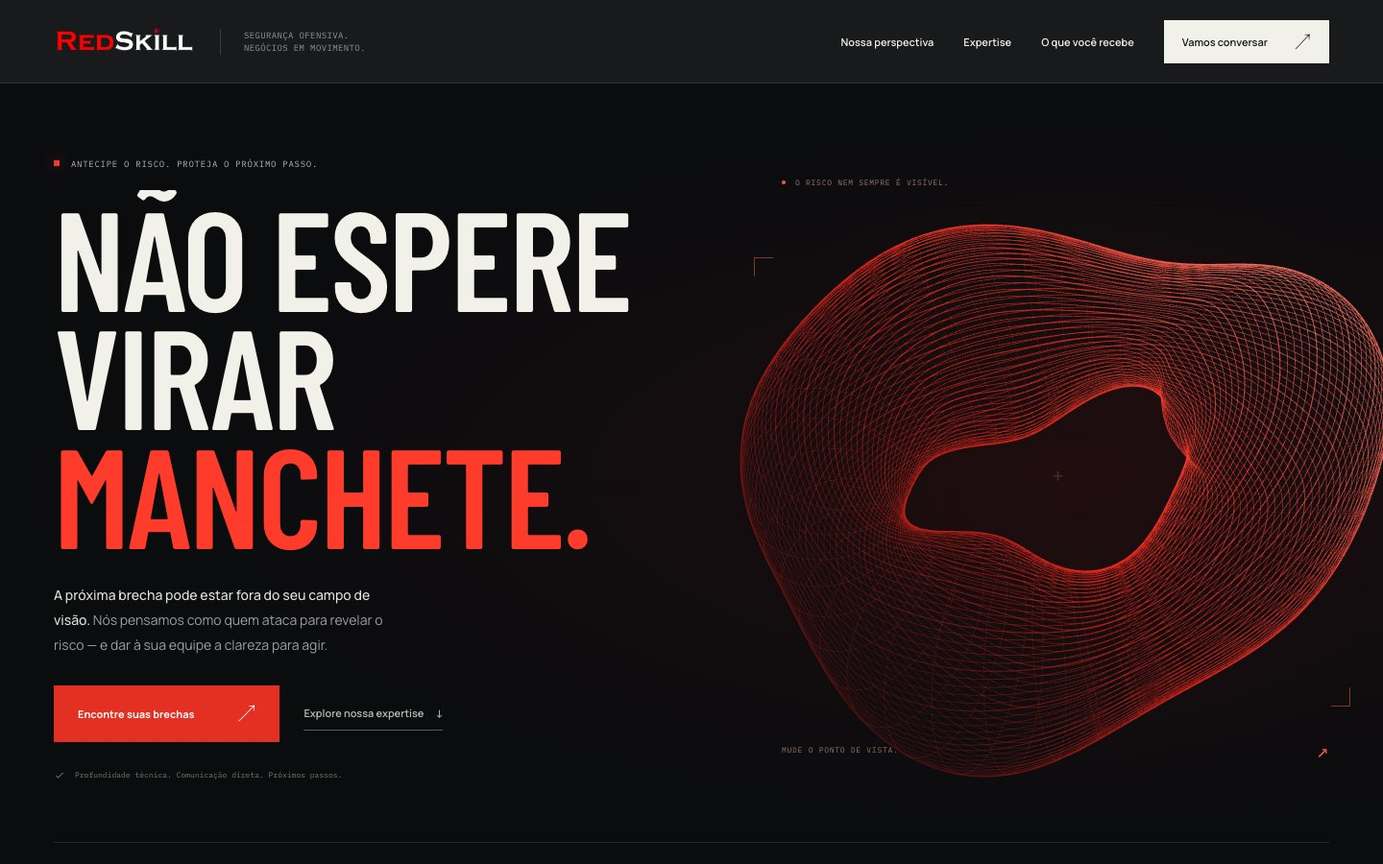
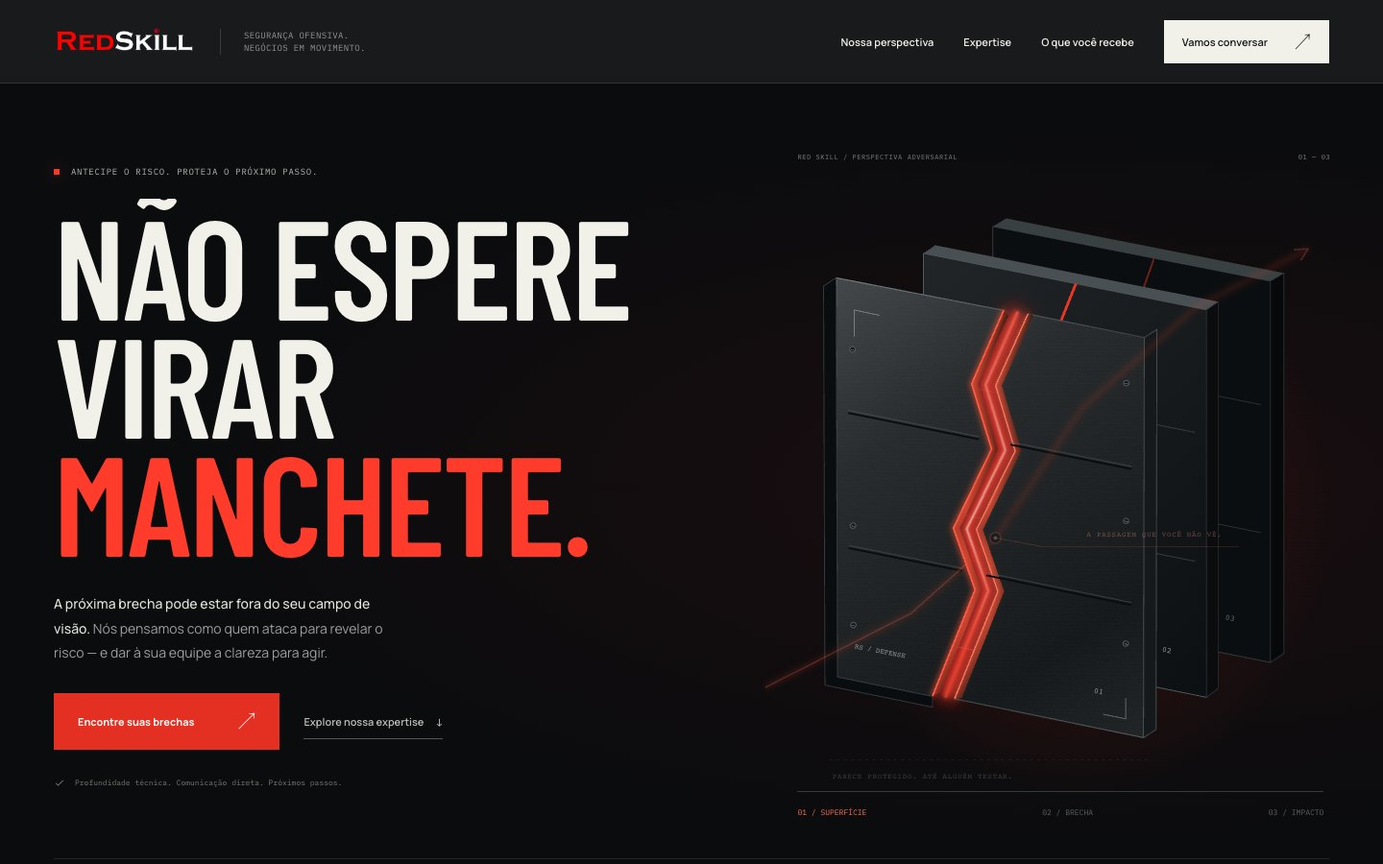
update final?

diff --git a/v23-antecipa.html b/v23-antecipa.html
@@ -231,10 +231,74 @@ h1 .last{color:#ff3c2c}
 @media(max-width:360px){h1{font-size:68px}.hero-copy>.eyebrow{font-size:7px}.hero-actions{gap:12px}.hero-actions .button{padding:16px 15px;gap:20px}.hero-art{height:365px}.manifesto-strip strong{font-size:30px}}
 @media(prefers-reduced-motion:reduce){.hero-art{transform:none!important}}
 
+
+/* A physical defense, exposed by an adversarial point of view. */
+.breach-scene{height:690px;margin-left:0;margin-right:-35px;perspective:1100px}
+.hero-art .breach-art{width:100%;height:100%;max-height:none;overflow:visible;transform:rotateY(var(--look-x,0deg)) rotateX(var(--look-y,0deg));transform-origin:50% 50%;transition:transform .8s var(--ease)}
+.breach-heading{position:absolute;left:13%;right:5%;top:6px;display:flex;justify-content:space-between;gap:20px;color:#778080;font:7px/1.8 var(--mono);letter-spacing:.08em}
+.plate-back{transform:translateX(var(--layer-shift,0px))}
+.plate-middle{transform:translateX(calc(var(--layer-shift,0px) * .45))}
+.plate-front-left{transform:translateX(var(--open-left,0px))}
+.plate-front-right{transform:translateX(var(--open-right,0px))}
+.attack-ray{opacity:calc(.2 + var(--breach,0)*.8)}
+.ray-line{stroke-dasharray:1;stroke-dashoffset:calc(.76 - var(--breach,0)*.76)}
+.fault-callout{opacity:calc(.35 + var(--breach,0)*.65)}
+footer{overflow:hidden}
+@media(prefers-reduced-motion:no-preference){.plate,.plate-front-left,.plate-front-right{transition:transform .18s ease-out}.ray-line{transition:stroke-dashoffset .18s ease-out}}
+.breach-phases{display:flex;justify-content:space-between;gap:15px;position:absolute;left:13%;right:6%;bottom:-10px;border-top:1px solid #333b3c;padding-top:15px;font:8px/1.5 var(--mono);color:#566161}
+.breach-phases span{transition:color .4s}.breach-phases .is-active{color:#ff6b53}
+.target-cursor{position:fixed;left:0;top:0;width:40px;height:40px;z-index:100;pointer-events:none;opacity:0;color:#ff6049;will-change:transform;transition:opacity .2s}
+.target-cursor svg{width:100%;height:100%;overflow:visible;filter:drop-shadow(0 0 2px #000)}
+.target-cursor .brackets{transform-origin:20px 20px;transition:transform .35s var(--ease)}
+.target-cursor.is-hover .brackets{transform:rotate(90deg) scale(.7)}
+.target-cursor.is-down .brackets{transform:scale(.5)}
+.target-cursor.visible{opacity:1}
+.target-cursor .cursor-center{transition:transform .2s;transform-origin:20px 20px}.target-cursor.is-hover .cursor-center{transform:rotate(45deg)}
+@media(hover:hover) and (pointer:fine) and (prefers-reduced-motion:no-preference){html.custom-aim,html.custom-aim body,html.custom-aim a,html.custom-aim button{cursor:none}html.custom-aim input,html.custom-aim textarea{cursor:text}html.custom-aim select{cursor:auto}}
+@media(prefers-reduced-motion:no-preference){
+ .fault-core{animation:fault-breathe 4s ease-in-out infinite}
+ @keyframes fault-breathe{0%,100%{opacity:.65}50%{opacity:1}}
+ .ready .reveal{transition-duration:1.1s;transform:translateY(45px)}
+ .ready .reveal.visible{transform:none}
+ .section-heading h2,.perspective h2,.delivery-copy h2,.contact h2{transform:translateY(var(--title-lift,0px));will-change:transform}
+ .impact-top svg{transform:rotate(var(--icon-turn,0deg));transition:transform .3s linear}
+ .process-number{color:color-mix(in srgb,#b5bea7 calc(100% - var(--number-emphasis,0%)),#ec3526)}
+ .report-paper{transform:perspective(1200px) rotateX(var(--report-x,0deg)) rotate(var(--report-turn,-5deg))!important}
+ .manifesto-strip strong{transform:translateX(var(--strip-drift,0px))}
+ .footer-statement{transform:translateX(var(--footer-drift,0px));opacity:var(--footer-alpha,1)}
+ .service-tabs button{transition:background .4s,color .4s,padding-left .4s}
+ .service-tabs button[aria-selected="true"]{padding-left:34px}
+ .scope-tags span{transition:transform .3s,border-color .3s}
+ .scope-tags span:hover{transform:translateY(-3px);border-color:#758465}
+ .button span{transition:transform .3s}.button:hover span{transform:translate(3px,-3px)}
+}
+@media(max-width:800px){.breach-scene{height:530px;margin:20px -20px 10px;width:calc(100% + 40px)}.breach-heading{font-size:6px;left:10%;right:8%;top:3px}.breach-phases{font-size:7px;left:10%;right:8%;bottom:0}}
+@media(max-width:360px){.breach-scene{height:450px}.breach-phases{font-size:6px}}
+@media(prefers-reduced-motion:reduce){.target-cursor{display:none}.plate-back,.plate-middle,.plate-front-left,.plate-front-right,.breach-art{transform:none!important}.attack-ray{opacity:.7}.ray-line{stroke-dashoffset:0}.fault-callout{opacity:1}}
+
+/* Native-scroll service chapters: enabled only when the whole panel fits. */
+.expertise-track{position:relative}
+.expertise-track.is-pinned .expertise-sticky{position:sticky;top:var(--pin-top,106px)}
+.service-stage{--panel-base:530px;min-height:var(--panel-height,var(--panel-base));isolation:isolate}
+.service-panel{min-height:var(--panel-height,var(--panel-base))}
+.panel-ghost{position:absolute!important;inset:0;z-index:2;pointer-events:none;background:#e8eade}
+.panel-ghost>div{animation:none!important}
+.expertise-rail{position:relative;display:flex;justify-content:space-between;gap:20px;align-items:center;font:8px/1.6 var(--mono);letter-spacing:.04em;color:#6c765f;padding:13px 2px 12px;background:var(--paper)}
+.expertise-rail i{position:absolute;bottom:0;left:0;right:0;height:2px;background:#d0d6c4}
+.expertise-rail i::after{content:"";display:block;height:100%;background:var(--red);transform:scaleX(var(--chapter-progress,0));transform-origin:left;transition:transform .1s linear}
+.chapter-counter{color:var(--ink)}
+.fault{opacity:calc(1 - var(--breach,0)*.86)}
+.plate-front-left,.plate-front-right{transform-box:fill-box;transform-origin:50% 50%}
+.plate-front-left{transform:translate(var(--open-left,0px),calc(var(--breach,0)*-8px)) rotate(calc(var(--breach,0)*-1.6deg))}
+.plate-front-right{transform:translate(var(--open-right,0px),calc(var(--breach,0)*7px)) rotate(calc(var(--breach,0)*1deg))}
+@media(prefers-reduced-motion:no-preference){.plate,.plate-front-left,.plate-front-right{transition:transform .48s cubic-bezier(.16,.7,.2,1)}.fault,.attack-ray,.fault-callout{transition:opacity .4s}.ray-line{transition:stroke-dashoffset .45s cubic-bezier(.16,.7,.2,1)}}
+@media(max-width:800px){.service-stage{--panel-base:480px}.expertise-rail{font-size:7px;padding:11px 0}}
+@media(prefers-reduced-motion:reduce){.expertise-sticky{position:static!important}.panel-ghost{display:none}.fault{opacity:1}}
 </style>
 <noscript><style>.service-tabs{display:none}.expertise-console{grid-template-columns:1fr}.service-panel[hidden]{display:flex;border-top:1px solid var(--line)}</style></noscript>
 </head>
 <body>
+<div class="target-cursor" aria-hidden="true"><svg viewBox="0 0 40 40" fill="none"><g class="brackets" stroke="currentColor" stroke-width="1.2"><path d="M3 13V3h10m14 0h10v10m0 14v10H27m-14 0H3V27"/></g><path class="cursor-center" d="M20 15v10m-5-5h10" stroke="currentColor" stroke-width="1"/><circle cx="20" cy="20" r="1" fill="currentColor"/></svg></div>
 <a class="skip" href="#inicio">Pular para o conteúdo</a>
 <header><nav class="wrap" aria-label="Navegação principal"><a class="brand" href="#inicio" aria-label="RedSkill — início"><img src="assets/redskill-light.png" alt="RedSkill"><span>SEGURANÇA OFENSIVA.<br>NEGÓCIOS EM MOVIMENTO.</span></a><div class="nav-links"><a href="#perspectiva">Nossa perspectiva</a><a href="#expertise">Expertise</a><a href="#entregas">O que você recebe</a><a class="nav-cta" href="#contato">Vamos conversar <span>↗</span></a></div></nav><div class="page-progress" aria-hidden="true"></div></header>
 <main id="inicio">
@@ -247,13 +311,86 @@ h1 .last{color:#ff3c2c}
    <div class="hero-actions"><a class="button" href="#contato">Encontre suas brechas <span>↗</span></a><a class="text-link" href="#expertise">Explore nossa expertise <span>↓</span></a></div>
    <div class="hero-bottom"><svg viewBox="0 0 16 16" fill="none" aria-hidden="true"><path d="m3 8 3 3 7-7" stroke="currentColor" stroke-width="1.4"/></svg>Profundidade técnica. Comunicação direta. Próximos passos.</div>
   </div>
-  <div class="hero-art" role="img" aria-label="Superfície digital vermelha de contornos entrelaçados que se transforma lentamente com o movimento">
-   <svg class="surface-fallback" viewBox="0 0 700 700" aria-hidden="true"><g transform="rotate(-30 350 350)"><ellipse cx="350" cy="350" rx="150" ry="80" fill="none" stroke="#ef3529" stroke-opacity="0.15" stroke-width=".8"/><ellipse cx="350" cy="350" rx="155" ry="85" fill="none" stroke="#ef3529" stroke-opacity="0.16999999999999998" stroke-width=".8"/><ellipse cx="350" cy="350" rx="160" ry="90" fill="none" stroke="#ef3529" stroke-opacity="0.19" stroke-width=".8"/><ellipse cx="350" cy="350" rx="165" ry="95" fill="none" stroke="#ef3529" stroke-opacity="0.21" stroke-width=".8"/><ellipse cx="350" cy="350" rx="170" ry="100" fill="none" stroke="#ef3529" stroke-opacity="0.22999999999999998" stroke-width=".8"/><ellipse cx="350" cy="350" rx="175" ry="105" fill="none" stroke="#ef3529" stroke-opacity="0.25" stroke-width=".8"/><ellipse cx="350" cy="350" rx="180" ry="110" fill="none" stroke="#ef3529" stroke-opacity="0.27" stroke-width=".8"/><ellipse cx="350" cy="350" rx="185" ry="115" fill="none" stroke="#ef3529" stroke-opacity="0.29000000000000004" stroke-width=".8"/><ellipse cx="350" cy="350" rx="190" ry="120" fill="none" stroke="#ef3529" stroke-opacity="0.31" stroke-width=".8"/><ellipse cx="350" cy="350" rx="195" ry="125" fill="none" stroke="#ef3529" stroke-opacity="0.32999999999999996" stroke-width=".8"/><ellipse cx="350" cy="350" rx="200" ry="130" fill="none" stroke="#ef3529" stroke-opacity="0.35" stroke-width=".8"/><ellipse cx="350" cy="350" rx="205" ry="135" fill="none" stroke="#ef3529" stroke-opacity="0.37" stroke-width=".8"/><ellipse cx="350" cy="350" rx="210" ry="140" fill="none" stroke="#ef3529" stroke-opacity="0.39" stroke-width=".8"/><ellipse cx="350" cy="350" rx="215" ry="145" fill="none" stroke="#ef3529" stroke-opacity="0.41000000000000003" stroke-width=".8"/><ellipse cx="350" cy="350" rx="220" ry="150" fill="none" stroke="#ef3529" stroke-opacity="0.43000000000000005" stroke-width=".8"/><ellipse cx="350" cy="350" rx="225" ry="155" fill="none" stroke="#ef3529" stroke-opacity="0.44999999999999996" stroke-width=".8"/><ellipse cx="350" cy="350" rx="230" ry="160" fill="none" stroke="#ef3529" stroke-opacity="0.47" stroke-width=".8"/><ellipse cx="350" cy="350" rx="235" ry="165" fill="none" stroke="#ef3529" stroke-opacity="0.49" stroke-width=".8"/><ellipse cx="350" cy="350" rx="240" ry="170" fill="none" stroke="#ef3529" stroke-opacity="0.51" stroke-width=".8"/><ellipse cx="350" cy="350" rx="245" ry="175" fill="none" stroke="#ef3529" stroke-opacity="0.53" stroke-width=".8"/><ellipse cx="350" cy="350" rx="250" ry="180" fill="none" stroke="#ef3529" stroke-opacity="0.55" stroke-width=".8"/><ellipse cx="350" cy="350" rx="255" ry="185" fill="none" stroke="#ef3529" stroke-opacity="0.57" stroke-width=".8"/><ellipse cx="350" cy="350" rx="260" ry="190" fill="none" stroke="#ef3529" stroke-opacity="0.59" stroke-width=".8"/><ellipse cx="350" cy="350" rx="265" ry="195" fill="none" stroke="#ef3529" stroke-opacity="0.61" stroke-width=".8"/><ellipse cx="350" cy="350" rx="270" ry="200" fill="none" stroke="#ef3529" stroke-opacity="0.63" stroke-width=".8"/><ellipse cx="350" cy="350" rx="275" ry="205" fill="none" stroke="#ef3529" stroke-opacity="0.65" stroke-width=".8"/><ellipse cx="350" cy="350" rx="280" ry="210" fill="none" stroke="#ef3529" stroke-opacity="0.67" stroke-width=".8"/><ellipse cx="350" cy="350" rx="285" ry="215" fill="none" stroke="#ef3529" stroke-opacity="0.6900000000000001" stroke-width=".8"/><ellipse cx="350" cy="350" rx="290" ry="220" fill="none" stroke="#ef3529" stroke-opacity="0.7100000000000001" stroke-width=".8"/><ellipse cx="350" cy="350" rx="295" ry="225" fill="none" stroke="#ef3529" stroke-opacity="0.73" stroke-width=".8"/></g></svg>
-   <canvas id="threat-surface" aria-hidden="true"></canvas>
-   <span class="art-corner art-corner-a"></span><span class="art-corner art-corner-b"></span>
-   <div class="surface-label surface-label-top"><i></i>O RISCO NEM SEMPRE É VISÍVEL.</div>
-   <div class="surface-label surface-label-bottom">MUDE O PONTO DE VISTA. <span>↗</span></div>
-   <div class="surface-cross" aria-hidden="true">+</div>
+  <div class="hero-art breach-scene" role="img" aria-label="Parede de defesa em placas de grafite. Uma fissura vermelha revela uma passagem entre as camadas, que se separam com o scroll.">
+   <div class="breach-heading"><span>RED SKILL / PERSPECTIVA ADVERSARIAL</span><span>01 — 03</span></div>
+   <svg class="breach-art" viewBox="0 0 700 740" fill="none" aria-hidden="true">
+    <defs>
+     <linearGradient id="graphite" x1="120" y1="120" x2="500" y2="680" gradientUnits="userSpaceOnUse"><stop stop-color="#45494b"/><stop offset=".32" stop-color="#242729"/><stop offset=".75" stop-color="#111416"/><stop offset="1" stop-color="#202326"/></linearGradient>
+     <linearGradient id="backplate" x1="160" y1="150" x2="580" y2="550" gradientUnits="userSpaceOnUse"><stop stop-color="#222629"/><stop offset="1" stop-color="#0d1012"/></linearGradient>
+     <linearGradient id="edge" x1="120" y1="140" x2="530" y2="660" gradientUnits="userSpaceOnUse"><stop stop-color="#7b8385"/><stop offset=".45" stop-color="#303638"/><stop offset="1" stop-color="#565b5b"/></linearGradient>
+     <linearGradient id="fault-light" x1="200" y1="160" x2="420" y2="650" gradientUnits="userSpaceOnUse"><stop stop-color="#f33b28"/><stop offset=".5" stop-color="#ffaca0"/><stop offset=".72" stop-color="#ff4933"/><stop offset="1" stop-color="#e82319"/></linearGradient>
+     <radialGradient id="fault-halo"><stop stop-color="#f1342038"/><stop offset="1" stop-color="#f1342000"/></radialGradient>
+     <filter id="soft-glow" x="-150%" y="-50%" width="400%" height="200%"><feGaussianBlur stdDeviation="10"/></filter>
+     <filter id="hot-glow" x="-100%" y="-50%" width="300%" height="200%"><feGaussianBlur stdDeviation="3"/></filter>
+     <filter id="stone-grain" x="0" y="0" width="100%" height="100%"><feTurbulence type="fractalNoise" baseFrequency=".68" numOctaves="3" seed="12" stitchTiles="stitch"/><feColorMatrix type="saturate" values="0"/><feComposite in2="SourceAlpha" operator="in"/></filter>
+     <linearGradient id="cut-face"><stop stop-color="#581c16"/><stop offset=".45" stop-color="#bd412e"/><stop offset="1" stop-color="#351711"/></linearGradient>
+     <pattern id="brushed" width="4" height="4" patternUnits="userSpaceOnUse"><path d="M0 0h4" stroke="#ffffff" stroke-opacity=".035" stroke-width=".5"/></pattern>
+    </defs>
+    <ellipse cx="395" cy="406" rx="285" ry="320" fill="url(#fault-halo)"/>
+    <g class="plate plate-back">
+     <path d="m294 90 310 61v426l-310-62z" fill="#0b0e10" stroke="#353a3d"/>
+     <path d="m604 151 15-9v425l-15 10z" fill="#060809" stroke="#282d2f"/>
+     <path d="m294 90 15-9 310 61-15 9z" fill="#394042"/>
+     <path d="m474 126-33 93 17 62-43 76 24 76-42 103" stroke="#d93021" stroke-opacity=".5" stroke-width="2"/>
+     <path d="m306 231 287 58m-287 85 287 58" stroke="#2b3031"/>
+     <text x="553" y="529" fill="#697071" font-size="9" font-family="monospace" transform="rotate(11 553 529)">03</text>
+    </g>
+    <g class="plate plate-middle">
+     <path d="m220 120 316 63v433l-316-64z" fill="url(#backplate)" stroke="#535a5e"/>
+     <path d="m536 183 13-9v432l-13 10z" fill="#0a0c0e" stroke="#282d2f"/>
+     <path d="m220 120 13-9 316 63-13 9z" fill="#495054"/>
+     <path d="m390 154-31 78 21 70-40 84 19 72-42 114" stroke="#ed3625" stroke-width="3"/>
+     <path d="m233 262 290 58m-290 86 290 58" stroke="#363c3d"/>
+     <text x="486" y="565" fill="#8e9697" font-size="9" font-family="monospace" transform="rotate(11 486 565)">02</text>
+    </g>
+    <g class="fault">
+     <path d="m328 185-36 82 22 73-43 88 24 69-48 119" stroke="#ff281a" stroke-width="19" filter="url(#soft-glow)"/>
+     <path d="m328 185-36 82 22 73-43 88 24 69-48 119" stroke="#ff513d" stroke-width="6" filter="url(#hot-glow)"/>
+     <path class="fault-core" d="m328 185-36 82 22 73-43 88 24 69-48 119" stroke="url(#fault-light)" stroke-width="2.5"/>
+    </g>
+    <g class="plate-front-left">
+     <path d="m135 148 187 37-36 82 22 73-43 88 24 69-48 119-106-22z" fill="url(#graphite)" stroke="url(#edge)" stroke-width="1.2"/>
+     <path d="m135 148 187 37-36 82 22 73-43 88 24 69-48 119-106-22z" fill="url(#brushed)"/>
+     <path d="m135 148 187 37-36 82 22 73-43 88 24 69-48 119-106-22z" fill="#fff" filter="url(#stone-grain)" opacity=".065"/>
+     <path d="m322 185-36 82 22 73-43 88 24 69-48 119 9-5 46-114-24-69 43-88-22-73 34-76z" fill="url(#cut-face)"/>
+     <path d="m322 185-36 82 22 73-43 88 24 69-48 119" stroke="#ff5139" stroke-width="5" opacity=".65" filter="url(#hot-glow)"/>
+     <path d="m322 185-36 82 22 73-43 88 24 69-48 119" stroke="#ff5a42" stroke-width="1.8"/>
+     <path d="m135 148-14 9v446l120 25v-12l-106-22z" fill="#0a0d0f" stroke="#33393c"/>
+     <path d="m148 296 146 30m-146 121 127 26" stroke="#53595a" stroke-opacity=".55"/>
+     <path d="m148 299 146 30m-146 121 127 26" stroke="#090b0d" stroke-width="2"/>
+     <path d="M155 184v30m0-30 28 6" stroke="#8b9191" stroke-width=".8"/>
+     <g fill="#14191c" stroke="#646d70" stroke-width=".8"><circle cx="153" cy="228" r="3"/><circle cx="153" cy="425" r="3"/><circle cx="153" cy="536" r="3"/></g>
+     <path d="m151 228 4 1m-4 196 4 1m-4 110 4 1" stroke="#848b8c" stroke-width=".6"/>
+     <text x="154" y="562" fill="#929b9b" font-size="8" font-family="monospace" transform="rotate(11 154 562)">RS / DEFENSE</text>
+    </g>
+    <g class="plate-front-right">
+     <path d="m334 187 130 26v447l-211-43 48-120-24-69 43-88-22-73z" fill="url(#graphite)" stroke="url(#edge)" stroke-width="1.2"/>
+     <path d="m334 187 130 26v447l-211-43 48-120-24-69 43-88-22-73z" fill="url(#brushed)"/>
+     <path d="m334 187 130 26v447l-211-43 48-120-24-69 43-88-22-73z" fill="#fff" filter="url(#stone-grain)" opacity=".065"/>
+     <path d="m334 187-36 80 22 73-43 88 24 69-48 120 8-1 47-119-24-69 43-88-22-73 35-79z" fill="url(#cut-face)" opacity=".9"/>
+     <path d="m334 187-36 80 22 73-43 88 24 69-48 120" stroke="#ff694e" stroke-width="4" opacity=".6" filter="url(#hot-glow)"/>
+     <path d="m334 187-36 80 22 73-43 88 24 69-48 120" stroke="#ff755b" stroke-width="1.5"/>
+     <path d="m464 213 14-9v447l-14 9z" fill="#15191b" stroke="#444c4e"/>
+     <path d="m315 330 135 27m-162 119 162 33" stroke="#555b5d" stroke-opacity=".55"/>
+     <path d="m315 333 135 27m-162 119 162 33" stroke="#090b0d" stroke-width="2"/>
+     <path d="M444 616v23l-25-5" stroke="#747e80" stroke-width=".8"/>
+     <g fill="#14191c" stroke="#646d70" stroke-width=".8"><circle cx="444" cy="264" r="3"/><circle cx="444" cy="418" r="3"/><circle cx="444" cy="555" r="3"/></g>
+     <path d="m442 264 4 1m-4 153 4 1m-4 136 4 1" stroke="#848b8c" stroke-width=".6"/>
+     <text x="408" y="610" fill="#8f989a" font-size="9" font-family="monospace" transform="rotate(11 408 610)">01</text>
+    </g>
+    <g class="attack-ray">
+     <path d="m46 605 163-83 94-84 96-144 128-114 125-65" stroke="#fb432c" stroke-width="6" filter="url(#hot-glow)" opacity=".5"/>
+     <path class="ray-line" pathLength="1" d="m46 605 163-83 94-84 96-144 128-114 125-65" stroke="#ff6950" stroke-width="1.5"/>
+     <path d="m636 116 16-1-8 13" stroke="#ff6950" stroke-width="1.5"/>
+     <circle cx="303" cy="438" r="6" fill="#100c0b" stroke="#ff6950"/><circle cx="303" cy="438" r="2" fill="#ffac96"/>
+    </g>
+    <g class="fault-callout" font-family="monospace" font-size="8" letter-spacing=".8">
+     <path d="m304 438 53 10h218" stroke="#b25140" stroke-width=".7"/><text x="405" y="437" fill="#e48d79">A PASSAGEM QUE VOCÊ NÃO VÊ.</text>
+     <path d="M118 686h356" stroke="#343d3d" stroke-dasharray="3 5"/>
+     <text x="121" y="707" fill="#707c7c">PARECE PROTEGIDO. ATÉ ALGUÉM TESTAR.</text>
+    </g>
+   </svg>
+   <div class="breach-phases"><span class="is-active">01 / SUPERFÍCIE</span><span>02 / BRECHA</span><span>03 / IMPACTO</span></div>
   </div>
  </div>
  <div class="hero-foot"><span><b>Segurança ofensiva</b> · Brasil</span><span>O risco muda. <b>A perspectiva também precisa mudar.</b></span><span>Conheça nossa abordagem ↓</span></div>
@@ -307,12 +444,63 @@ h1 .last{color:#ff3c2c}
 (function(){
  const motion=matchMedia('(prefers-reduced-motion: reduce)');
  const tabs=[...document.querySelectorAll('[role="tab"]')];
- function selectTab(index,focus){
+ const stage=document.querySelector('.service-stage');
+ const panels=tabs.map(tab=>document.getElementById(tab.getAttribute('aria-controls')));
+ const consoleElement=document.querySelector('.expertise-console');
+ const track=document.createElement('div'),sticky=document.createElement('div');
+ track.className='expertise-track';sticky.className='expertise-sticky';
+ consoleElement.before(track);track.append(sticky);sticky.append(consoleElement);
+ const rail=document.createElement('div');rail.className='expertise-rail';
+ rail.innerHTML='<span class="scroll-instruction">Escolha um serviço para explorar</span><span class="chapter-counter" aria-hidden="true">01 / 06</span><i aria-hidden="true"></i>';
+ sticky.append(rail);
+ let selectedIndex=0,autoBin=0,manualBin=null,pinned=false,stepDistance=350,stickyTop=106;
+ function selectTab(index,focus,automatic=false){
+  if(!automatic)manualBin=autoBin;
+  if(index!==selectedIndex&&!motion.matches){
+   stage.querySelectorAll('.panel-ghost').forEach(el=>el.remove());
+   const previous=panels[selectedIndex],r=stage.getBoundingClientRect();
+   if(r.bottom>0&&r.top<innerHeight){
+    const ghost=previous.cloneNode(true);ghost.removeAttribute('id');ghost.removeAttribute('role');ghost.removeAttribute('aria-labelledby');ghost.removeAttribute('tabindex');
+    ghost.querySelectorAll('[id]').forEach(el=>el.removeAttribute('id'));
+    ghost.classList.add('panel-ghost');ghost.setAttribute('aria-hidden','true');ghost.inert=true;stage.append(ghost);
+    ghost.animate([{opacity:1,transform:'translateY(0)'},{opacity:0,transform:'translateY(-9px)'}],{duration:260,easing:'ease-out'}).finished.then(()=>ghost.remove(),()=>ghost.remove());
+   }
+  }
+  selectedIndex=index;
   tabs.forEach((tab,i)=>{
    const selected=i===index;tab.setAttribute('aria-selected',String(selected));tab.tabIndex=selected?0:-1;
-   document.getElementById(tab.getAttribute('aria-controls')).hidden=!selected;
+   panels[i].hidden=!selected;
   });
+  rail.querySelector('.chapter-counter').textContent=String(index+1).padStart(2,'0')+' / 06';
   if(focus)tabs[index].focus();
+ }
+ function measureServices(){
+  stage.style.removeProperty('--panel-height');
+  let height=0;
+  panels.forEach(panel=>{
+   const wasHidden=panel.hidden,oldStyle=panel.getAttribute('style');
+   panel.hidden=false;panel.style.cssText='position:absolute;visibility:hidden;width:100%;';
+   height=Math.max(height,panel.offsetHeight);
+   panel.hidden=wasHidden;if(oldStyle===null)panel.removeAttribute('style');else panel.setAttribute('style',oldStyle);
+  });
+  stage.style.setProperty('--panel-height',height+'px');
+  stickyTop=innerWidth<=800?86:106;
+  sticky.style.setProperty('--pin-top',stickyTop+'px');
+  stepDistance=Math.max(230,innerHeight*.42);
+  pinned=!motion.matches&&sticky.offsetHeight<innerHeight-stickyTop-16;
+  track.classList.toggle('is-pinned',pinned);
+  track.style.height=pinned?(sticky.offsetHeight+stepDistance*tabs.length)+'px':'auto';
+  rail.querySelector('.scroll-instruction').textContent=pinned?'Role para explorar · ou selecione um serviço':'Selecione um serviço para explorar';
+ }
+ function updateServices(){
+  if(!pinned)return;
+  const r=track.getBoundingClientRect(),distance=Math.max(0,Math.min(stepDistance*tabs.length,stickyTop-r.top));
+  const bin=Math.min(tabs.length-1,Math.floor(distance/stepDistance));
+  rail.style.setProperty('--chapter-progress',distance/(stepDistance*tabs.length));
+  if(r.top>innerHeight||r.bottom<0)return;
+  if(manualBin!==null&&bin!==manualBin)manualBin=null;
+  autoBin=bin;
+  if(bin!==selectedIndex&&manualBin===null&&!stage.contains(document.activeElement))selectTab(bin,false,true);
  }
  tabs.forEach((tab,index)=>{
   tab.addEventListener('click',()=>selectTab(index,false));
@@ -345,89 +533,69 @@ h1 .last{color:#ff3c2c}
  function update(){
   queued=false;
   document.documentElement.style.setProperty('--progress',scrollY/Math.max(1,document.documentElement.scrollHeight-innerHeight));
+  updateServices();
   if(motion.matches)return;
   const rect=art.getBoundingClientRect();
   if(rect.bottom>0&&rect.top<innerHeight){
-   const t=Math.max(0,Math.min(1,scrollY/750));
-   art.style.setProperty('--surface-shift',(-t*35)+'px');
+   const t=Math.max(0,Math.min(1,(innerHeight*.22-rect.top)/(rect.height*.55)));
+   art.style.setProperty('--breach',t);art.style.setProperty('--open-left',(-t*75)+'px');art.style.setProperty('--open-right',(t*40)+'px');art.style.setProperty('--layer-shift',(t*50)+'px');
+   art.querySelectorAll('.breach-phases span').forEach((el,i)=>el.classList.toggle('is-active',i===Math.min(2,Math.floor(t*3))));
   }
   lines.forEach(el=>{const top=el.getBoundingClientRect().top;el.style.setProperty('--line-fill',Math.max(0,Math.min(1,(innerHeight*.88-top)/(innerHeight*.38))))});
  }
  function schedule(){if(!queued){queued=true;requestAnimationFrame(update)}}
- addEventListener('scroll',schedule,{passive:true});addEventListener('resize',schedule);
- motion.addEventListener('change',()=>{document.documentElement.classList.remove('ready');schedule()});
+ addEventListener('scroll',schedule,{passive:true});addEventListener('resize',()=>{measureServices();schedule()});
+ motion.addEventListener('change',()=>{
+  document.documentElement.classList.remove('ready');
+  stage.querySelectorAll('.panel-ghost').forEach(ghost=>{ghost.getAnimations().forEach(animation=>animation.cancel());ghost.remove()});
+  measureServices();schedule();
+ });
+ document.fonts.ready.then(()=>{measureServices();schedule()});
+ measureServices();
  update();
 })();
 
-/* Procedural textile of risk: a local, decorative canvas, without network data. */
+
+/* Scroll choreography: measured once per animation frame, native page scrolling. */
 (function(){
- const canvas=document.getElementById('threat-surface'),ctx=canvas.getContext('2d');
- if(!ctx)return;
- const host=canvas.parentElement,reduce=matchMedia('(prefers-reduced-motion: reduce)');
- let w=0,h=0,raf=0,last=0,inView=true,px=0,py=0,tx=0,ty=0;
- const TAU=Math.PI*2;
- function point(u,v,time){
-  const ripple=.12*Math.sin(3*u+time*.32)+.06*Math.cos(5*u-time*.2);
-  const tube=.58+ripple;
-  const ring=1.46+tube*Math.cos(v);
-  let x=ring*Math.cos(u),y=ring*Math.sin(u),z=tube*Math.sin(v)+.14*Math.sin(2*u+time*.15);
-  const ax=.73+py*.14,ay=.28+px*.2,az=-.53+Math.sin(time*.12)*.035;
-  const y1=y*Math.cos(ax)-z*Math.sin(ax),z1=y*Math.sin(ax)+z*Math.cos(ax);
-  const x2=x*Math.cos(ay)+z1*Math.sin(ay),z2=-x*Math.sin(ay)+z1*Math.cos(ay);
-  const x3=x2*Math.cos(az)-y1*Math.sin(az),y3=x2*Math.sin(az)+y1*Math.cos(az);
-  const scale=Math.min(w,h)*.255;
-  return [w*.52+x3*scale,h*.51+y3*scale,z2];
+ const reduce=matchMedia('(prefers-reduced-motion: reduce)');
+ const scene=document.querySelector('.breach-scene');
+ const headings=[...document.querySelectorAll('.section-heading h2,.perspective h2,.delivery-copy h2,.contact h2')];
+ const impacts=[...document.querySelectorAll('.impact')],steps=[...document.querySelectorAll('.process-step')];
+ const report=document.querySelector('.report-scene'),strip=document.querySelector('.manifesto-strip'),footer=document.querySelector('.footer-statement');
+ const clamp=(n,a,b)=>Math.max(a,Math.min(b,n));let queued=false;
+ function draw(){
+  queued=false;if(reduce.matches)return;
+  const vh=innerHeight;
+  headings.forEach(el=>{const r=el.parentElement.getBoundingClientRect();if(r.bottom>0&&r.top<vh)el.style.setProperty('--title-lift',clamp((r.top-vh*.45)*.045,-14,20)+'px')});
+  impacts.forEach(el=>{const r=el.getBoundingClientRect();if(r.bottom>0&&r.top<vh)el.style.setProperty('--icon-turn',clamp((vh*.7-r.top)*.09,0,45)+'deg')});
+  steps.forEach(el=>{const r=el.getBoundingClientRect();el.style.setProperty('--number-emphasis',clamp((vh*.85-r.top)/(vh*.5),0,1)*100+'%')});
+  const rr=report.getBoundingClientRect();
+  if(rr.bottom>0&&rr.top<vh){const p=clamp((vh-rr.top)/(vh+rr.height),0,1);report.style.setProperty('--report-turn',(-9+p*13)+'deg');report.style.setProperty('--report-x',(9-p*15)+'deg')}
+  const sr=strip.getBoundingClientRect();if(sr.bottom>0&&sr.top<vh)strip.style.setProperty('--strip-drift',clamp((vh*.5-sr.top)*.08,-25,25)+'px');
+  const fr=footer.getBoundingClientRect();if(fr.top<vh){footer.style.setProperty('--footer-drift',clamp((fr.top-vh*.6)*.08,0,20)+'px');footer.style.setProperty('--footer-alpha',clamp((vh-fr.top)/(vh*.2),.3,1))}
  }
- function draw(ms){
-  const time=reduce.matches?0:ms*.00032;
-  px+=(tx-px)*.065;py+=(ty-py)*.065;
-  ctx.clearRect(0,0,w,h);
-  const glow=ctx.createRadialGradient(w*.54,h*.51,10,w*.54,h*.51,w*.5);
-  glow.addColorStop(0,'rgba(100,12,12,.09)');glow.addColorStop(.55,'rgba(120,17,12,.035)');glow.addColorStop(1,'rgba(80,5,5,0)');
-  ctx.fillStyle=glow;ctx.fillRect(0,0,w,h);
-  const curves=[];
-  const count=w<450?58:86,segments=w<450?124:170;
-  for(let j=0;j<count;j++){
-   const v=j/count*TAU,points=[];let depth=0;
-   for(let i=0;i<=segments;i++){const p=point(i/segments*TAU,v,time);points.push(p);depth+=p[2]}
-   curves.push({points,depth:depth/points.length,j});
-  }
-  curves.sort((a,b)=>a.depth-b.depth);
-  for(const curve of curves){
-   const front=(curve.depth+1.2)/2.4;
-   const grad=ctx.createLinearGradient(w*.13,h*.75,w*.8,h*.14);
-   grad.addColorStop(0,'rgba(128,19,20,'+(.16+front*.24)+')');
-   grad.addColorStop(.46,'rgba(244,38,26,'+(.4+front*.48)+')');
-   grad.addColorStop(.72,'rgba(255,61,48,'+(.35+front*.55)+')');
-   grad.addColorStop(1,'rgba(255,117,101,'+(.4+front*.5)+')');
-   ctx.strokeStyle=grad;ctx.lineWidth=curve.j%5===0?1.1:.7;
-   ctx.beginPath();curve.points.forEach((p,i)=>i?ctx.lineTo(p[0],p[1]):ctx.moveTo(p[0],p[1]));ctx.stroke();
-  }
-  /* Sparse cross sections define the surface without dots or space particles. */
-  ctx.lineWidth=.45;ctx.strokeStyle='rgba(247,62,39,.22)';
-  for(let i=0;i<40;i++){
-   ctx.beginPath();
-   for(let j=0;j<=54;j++){const p=point(i/40*TAU,j/54*TAU,time);j?ctx.lineTo(p[0],p[1]):ctx.moveTo(p[0],p[1])}
-   ctx.stroke();
-  }
-  host.classList.add('canvas-ready');
- }
- function loop(ms){if(ms-last>40){draw(ms);last=ms}raf=requestAnimationFrame(loop)}
- function run(){
-  cancelAnimationFrame(raf);raf=0;
-  if(document.hidden||!inView)return;
-  draw(performance.now());
-  if(!reduce.matches)raf=requestAnimationFrame(loop);
- }
- function resize(){
-  w=host.clientWidth;h=host.clientHeight;
-  const dpr=Math.min(devicePixelRatio||1,2);canvas.width=Math.round(w*dpr);canvas.height=Math.round(h*dpr);ctx.setTransform(dpr,0,0,dpr,0,0);run();
- }
- host.addEventListener('pointermove',e=>{if(reduce.matches||e.pointerType==='touch')return;const rect=host.getBoundingClientRect();tx=(e.clientX-rect.left)/rect.width-.5;ty=(e.clientY-rect.top)/rect.height-.5},{passive:true});
- host.addEventListener('pointerleave',()=>{tx=0;ty=0});
- new ResizeObserver(resize).observe(host);
- new IntersectionObserver(entries=>{inView=entries[0].isIntersecting;run()},{rootMargin:'80px'}).observe(host);
- document.addEventListener('visibilitychange',run);reduce.addEventListener('change',run);resize();
+ function schedule(){if(!queued){queued=true;requestAnimationFrame(draw)}}
+ addEventListener('scroll',schedule,{passive:true});addEventListener('resize',schedule);
+ scene.addEventListener('pointermove',e=>{if(reduce.matches||e.pointerType!=='mouse')return;const r=scene.getBoundingClientRect();scene.style.setProperty('--look-x',((e.clientX-r.left)/r.width-.5)*7+'deg');scene.style.setProperty('--look-y',-((e.clientY-r.top)/r.height-.5)*5+'deg')},{passive:true});
+ scene.addEventListener('pointerleave',()=>{scene.style.setProperty('--look-x','0deg');scene.style.setProperty('--look-y','0deg')});
+ const io=new IntersectionObserver(entries=>entries.forEach(e=>{e.target.querySelectorAll('.fault-core').forEach(el=>el.style.animationPlayState=e.isIntersecting?'running':'paused')}));
+ io.observe(scene);reduce.addEventListener('change',schedule);draw();
+})();
+(function(){
+ const cursor=document.querySelector('.target-cursor'),media=matchMedia('(hover:hover) and (pointer:fine) and (prefers-reduced-motion:no-preference)');
+ let x=0,y=0,dx=0,dy=0,frame=0,visible=false;
+ function paint(){dx+=(x-dx)*.7;dy+=(y-dy)*.7;cursor.style.transform='translate3d('+(dx-20)+'px,'+(dy-20)+'px,0)';if(visible&&(Math.abs(x-dx)>.1||Math.abs(y-dy)>.1))frame=requestAnimationFrame(paint);else frame=0}
+ function hide(){visible=false;cursor.classList.remove('visible');document.documentElement.classList.remove('custom-aim');cancelAnimationFrame(frame);frame=0}
+ document.addEventListener('pointermove',e=>{
+  if(!media.matches||e.pointerType!=='mouse'||e.target.closest('input,textarea,select,label,[contenteditable]')){hide();return}
+  x=e.clientX;y=e.clientY;if(!visible){dx=x;dy=y}visible=true;
+  cursor.classList.add('visible');document.documentElement.classList.add('custom-aim');cursor.classList.toggle('is-hover',!!e.target.closest('a,button'));
+  if(!frame)frame=requestAnimationFrame(paint);
+ },{passive:true});
+ document.addEventListener('pointerdown',()=>cursor.classList.add('is-down'));document.addEventListener('pointerup',()=>cursor.classList.remove('is-down'));
+ document.documentElement.addEventListener('pointerleave',hide);addEventListener('blur',hide);media.addEventListener('change',hide);
+ document.addEventListener('keydown',e=>{if(e.key==='Tab')hide()});
 })();
 
 </script>

diff --git a/index.html b/index.html
@@ -487,8 +487,8 @@
     </a>
 
     <a class="card" href="v23-antecipa.html" data-res="b23" target="_blank" rel="noopener">
-      <div class="prev preview-real"><img src="assets/thumbnails/v23-antecipa.jpg?v=2" alt="" loading="lazy" width="1440" height="900"></div>
-      <div class="meta"><div class="vno">V23 · ANTECIPA</div><div class="vt">Antecipa — Antes da manchete</div><div class="vd">Tipografia monumental, abertura escura e superfície digital vermelha que reage ao cursor e ao scroll. Segurança ofensiva com presença de marca.</div><div class="go">Abrir versão →</div></div>
+      <div class="prev preview-real"><img src="assets/thumbnails/v23-antecipa.jpg?v=4" alt="" loading="lazy" width="1440" height="900"></div>
+      <div class="meta"><div class="vno">V23 · ANTECIPA</div><div class="vt">Antecipa — A brecha na defesa</div><div class="vd">Uma fissura vermelha atravessa placas de grafite. O scroll abre as camadas, revela o caminho e conduz a narrativa. Mira própria e movimento por toda a experiência.</div><div class="go">Abrir versão →</div></div>
     </a>
   </div>
   <p class="foot">© 2026 RedSkill — Atacar para proteger.</p>
